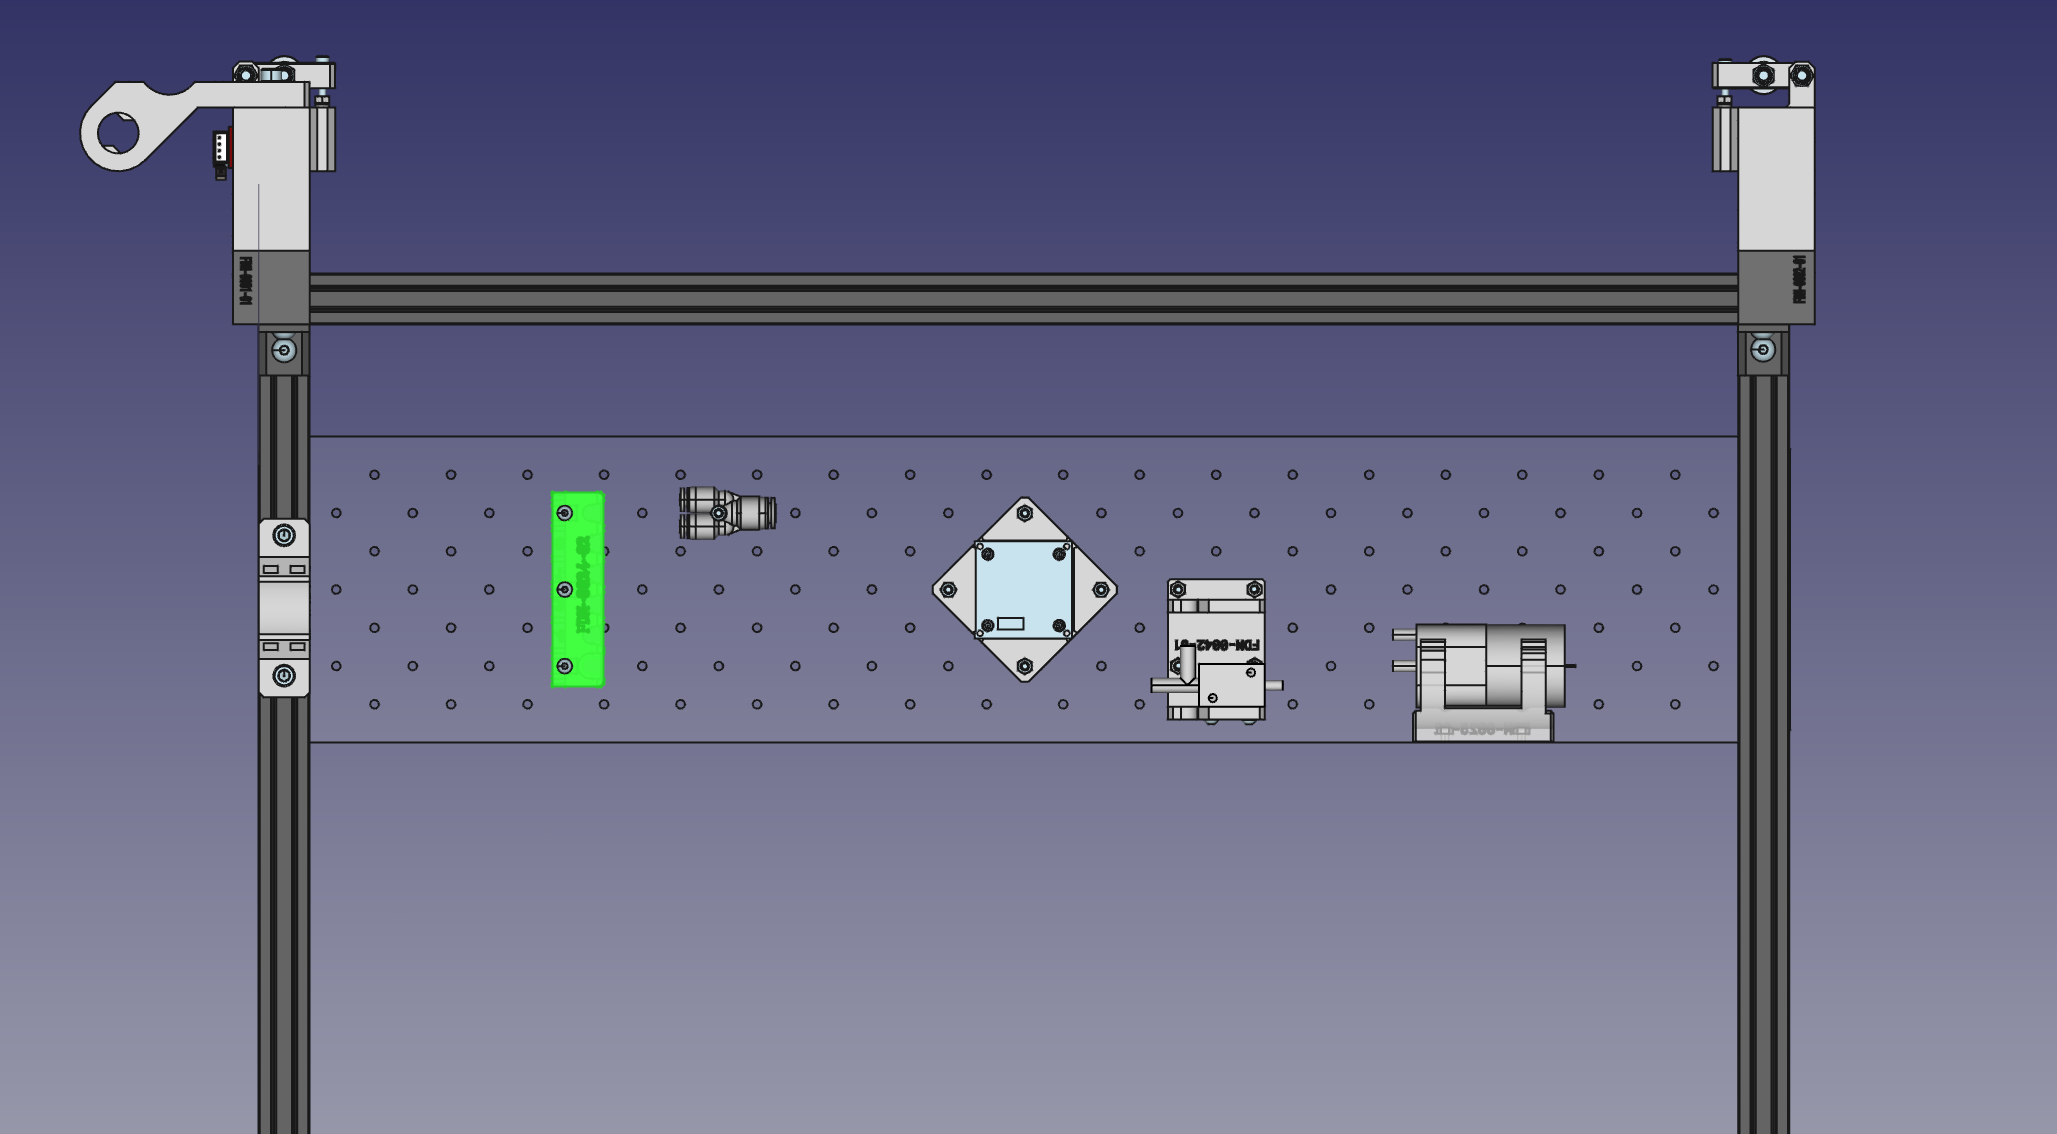
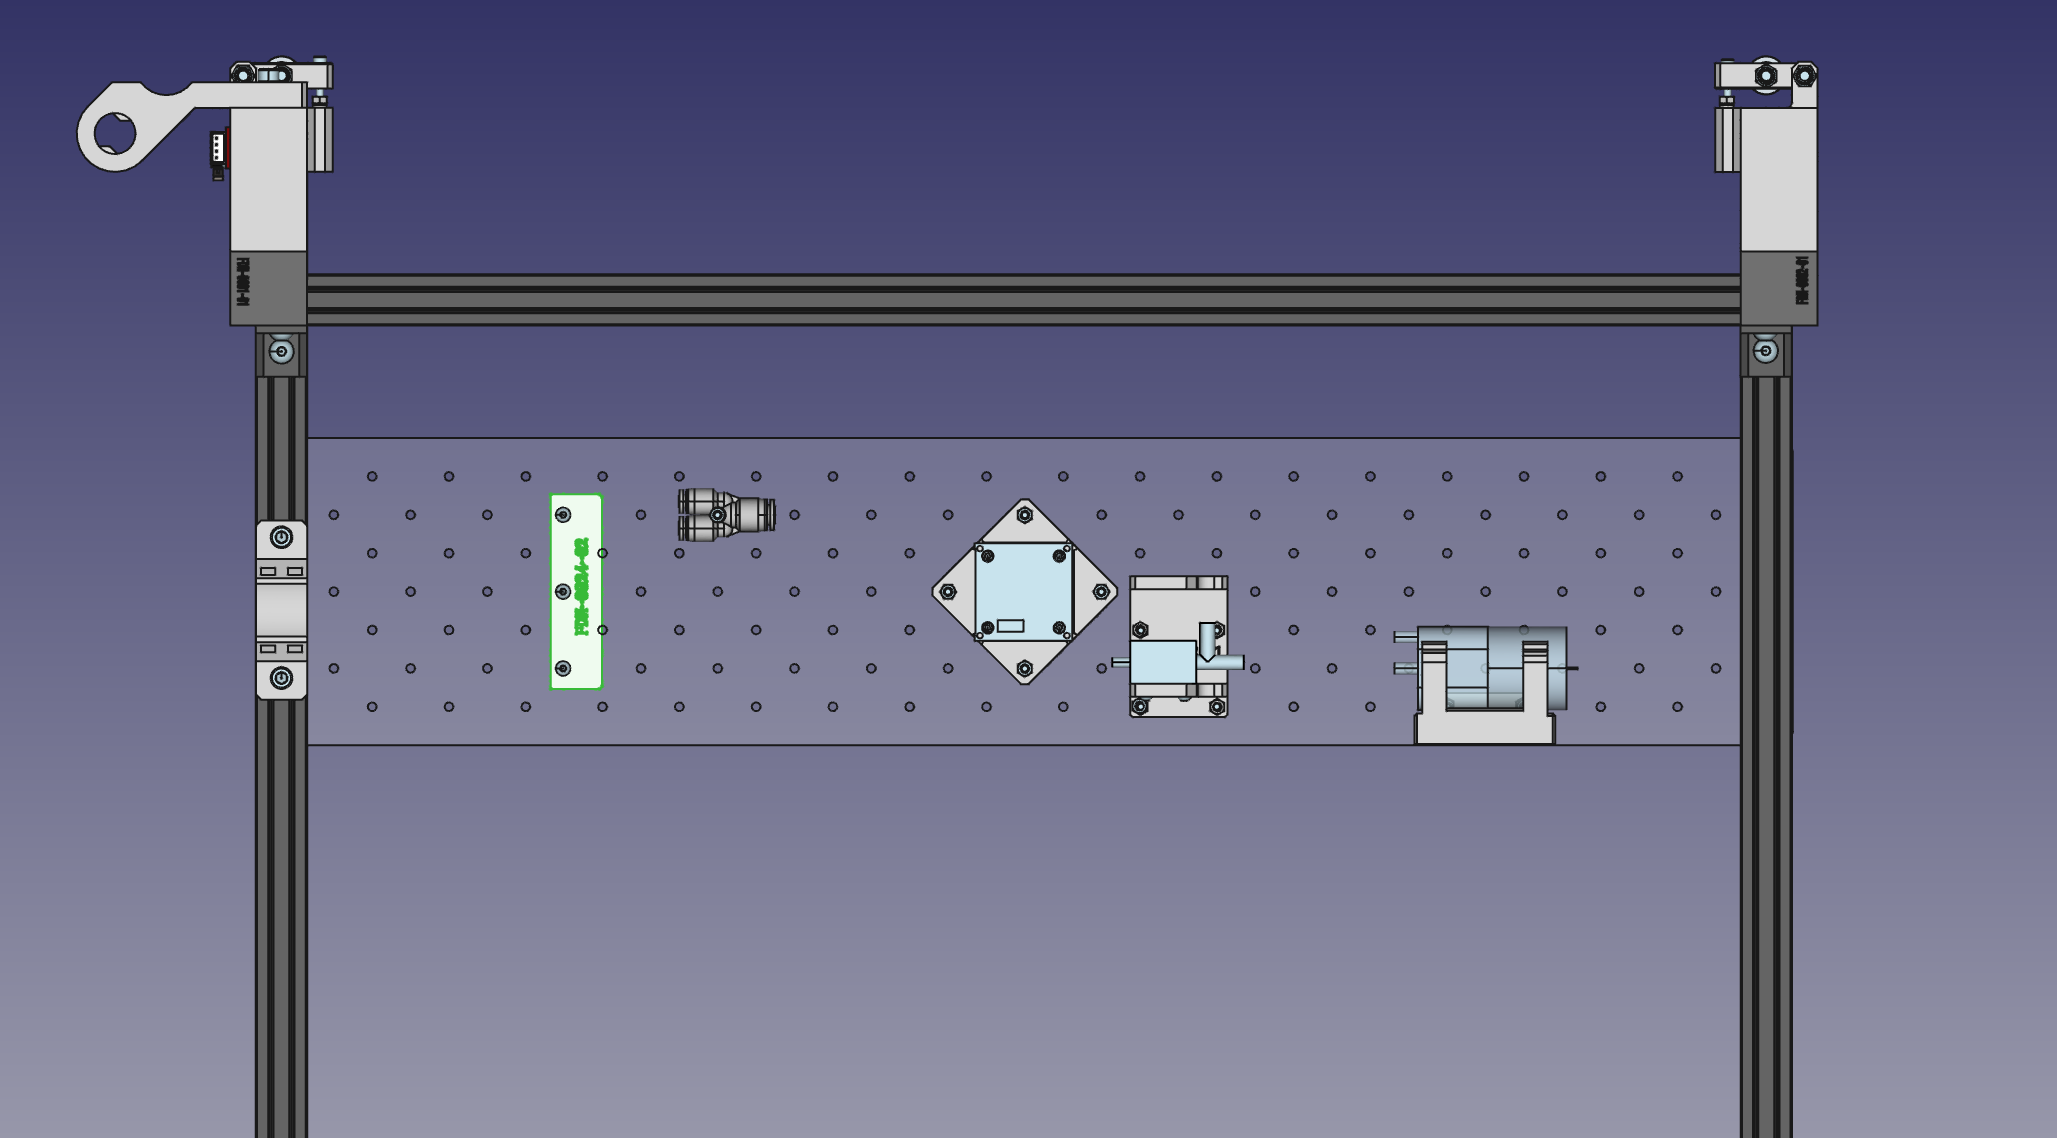
CAD images for Populating the staging plate

diff --git a/doc/content/en/docs/mechanical-assembly/populating-staging-plate/index.md b/doc/content/en/docs/mechanical-assembly/populating-staging-plate/index.md
@@ -17,51 +17,64 @@ Refer to the images below for referencing where to mount parts on the staging pl
 
 ## Pump mount
 
-The first thing we'll mount to the staging plate is the {{<tooltip "Pump Mount" "FDM-0025">}}. This print suspends the pump using a couple rubber bands to ensure none of the vibration of the pump is transferred into the frame.
+The first thing we'll mount to the staging plate is the {{<tooltip "Pump Mount" "FDM-0025">}}. This print suspends the pump using two rubber bands to ensure none of the vibration of the pump is transferred into the frame.
 
-1. Start by press-fitting M3 nuts into the recesses in the {{<tooltip "Pump Mount" "FDM-0025">}}.
+1. Start by press-fitting M3 nuts into the side recesses in the {{<tooltip "Pump Mount" "FDM-0025">}}.
+  {{< container-image path="images/Populating-The-Staging-Plate-Step-1-2.png" alt="Two Nut locations on the Pump Mount" >}}
 
-2. Now we'll mount the pump in the print using a couple rubber bands. Start by grabbing the rubber band with both hands, giving it a half twist, and folding it over on itself, making two loops.
+2. Now we'll mount the pump in the {{<tooltip "Pump Mount" "FDM-0025">}} using a couple rubber bands. Start by grabbing the rubber band with both hands, giving it a half twist, and folding it over on itself, making two loops.
   {{< container-image path="images/IMG_0737.JPG" alt="" >}}
   {{< container-image path="images/IMG_0738.JPG" alt="" >}}
   {{< container-image path="images/IMG_0740.JPG" alt="" >}}
 
-3. Now stretch each rubber band over each pair of pegs on the mount. Guide the pump between each pair of bands so that it's suspended in the print.
+3. Now stretch each rubber band over each pair of pegs on the {{<tooltip "Pump Mount" "FDM-0025">}}. Guide the pump between each pair of bands so that it's suspended in the {{<tooltip "Pump Mount" "FDM-0025">}}.
   {{< container-image path="images/IMG_0742.JPG" alt="" >}}
   {{< container-image path="images/IMG_0743.JPG" alt="" >}}
   {{< container-image path="images/IMG_0744.JPG" alt="" >}}
 
-4. Mount it to the staging plate using two M3 x 10mm screws in the location shown below.
-  {{< container-image path="images/IMG_0741.JPG" alt="" >}}
+4. Mount the {{<tooltip "Pump Mount" "FDM-0025">}} to the staging plate using two M3 x 10mm screws in the location shown below.
+  {{< container-image path="images/Populating-The-Staging-Plate-Step-4-ALT.png" alt="Mounting position for the Pump" >}}
+  {{< container-image path="images/IMG_0741.JPG" alt="The Pump assembly mounted on the staging plate" >}}
 
 ## Valve mount
 Now we'll attach the {{<tooltip "Valve Mount" "FDM-0042">}} to the staging plate.
 
 5. Press fit four M3 nuts into the recesses in the {{<tooltip "Valve Mount" "FDM-0042">}}.
+  {{< container-image path="images/Populating-The-Staging-Plate-Step-5.png" alt="four nut locations in the Valve Mount" >}}
 
-6. Now we'll mount the valve to the print. Use two M3x8mm screws to attach the valve to the mount as shown below. Mount it to the staging plate using four M3x8mm screws in the location shown below.
+6. Use two M3x8mm screws to attach the valve to the {{<tooltip "Valve Mount" "FDM-0042">}} as shown below.
+  {{< container-image path="images/Populating-The-Staging-Plate-Step-6.png" alt="attaching the valve to the valve mount with two screws" >}}
+
+7. Use four M3x8mm screws to mount the {{<tooltip "Valve Mount" "FDM-0042">}} to the staging plate in the location shown below.
+  {{< container-image path="images/Populating-The-Staging-Plate-Step-7-ALT.png" alt="attaching the valve to the staging plate" >}}
   {{< container-image path="images/IMG_0745.jpg" alt="" >}}
 
 ## Pneumatic Y splitter mount
 
-7. TMount the pneumatic Y splitter to the staging plate using an M3x30mm screw and an M3 nut. You can find the correct location and orientation to mount it below:
+8. Use an M3x30mm screw and an M3 nut to mount the pneumatic Y splitter to the staging plate as shown below.
+  {{< container-image path="images/Populating-The-Staging-Plate-Step-8-ALT.png" alt="Attaching the Y Splitter to the Staging Plate" >}}
   {{< container-image path="images/PXL_20220204_061125932.MP.jpg" alt="" >}}
 
 ## Bottom camera mount
 
-8. Stack the {{<tooltip "Up Light Mount" "FDM-0019">}}, the Up Ring Light, and the {{<tooltip "Up Camera Mount" "FDM-0020">}} together.
+9. Stack the {{<tooltip "Up Light Mount" "FDM-0019">}}, the Up Ring Light, and the {{<tooltip "Up Camera Mount" "FDM-0020">}} together. (Note: the Up Ring Light is not pictured here)
+  {{< container-image path="images/Populating-The-Staging-Plate-Step-9.png" alt="Assembling the Up Camera stack" >}}
 
-9. Attach them to the staging plate using four M3x30mm screws and four M3 nuts.
+10. Use four M3x30mm screws and four M3 nuts to attach the stack to the staging plate. The cable connector for the Up Ring Light should be facing down and to the left, away from the valve.
+  {{< container-image path="images/Populating-The-Staging-Plate-Step-10.png" alt="Up Camera Stack attached to the staging plate with the Up Ring Light's connector facing down and to the left" >}}
 
-10. Loosen the screw on the camera so that we can adjust the camera's focus later. Even after doing so, it still might be difficult to rotate the lens. A light grip with some pliers and a gentle twist can help break the lens free and make it easier to rotate by hand.
+11. Loosen the screw on the camera so that we can adjust the camera's focus later. Even after doing so, it still might be difficult to rotate the lens. A light grip with some pliers and a gentle twist can help break the lens free and make it easier to rotate by hand.
 
-11. Use four M2.5x8mm screws to mount the camera into the up {{<tooltip "Up Camera Mount" "FDM-0020">}} by tapping directly into the plastic. Match the orientation to the image below:
-  {{< container-image path="images/IMG_0837.JPG" alt="" >}}
+12. Use four M2.5x8mm screws to mount the camera into the up {{<tooltip "Up Camera Mount" "FDM-0020">}} by tapping directly into the plastic. Match the orientation to the image below:
+  {{< container-image path="images/Populating-The-Staging-Plate-Step-12-ALT.png" alt="Up Camera Location on the staging plate" >}}
+  {{< container-image path="images/IMG_0837.JPG" alt="Final assembly of the Up Camera and Up Ring Light, with proper cable orientation" >}}
 
 ## Nozzle Holder
 
-12. Slide three M3 nuts into the slots in the back of the {{<tooltip "Nozzle Holder" "FDM-0024">}}.
+13. Slide three M3 nuts into the slots in the back of the {{<tooltip "Nozzle Holder" "FDM-0024">}}.
+  {{< container-image path="images/Populating-The-Staging-Plate-Step-13.png" alt="Nuts inserted into the nozzle holder" >}}
 
-13. Using three M3x8mm machine screws, tighten the {{<tooltip "Nozzle Holder" "FDM-0024">}} onto the staging plate as shown below.
+14. Using three M3x8mm machine screws, tighten the {{<tooltip "Nozzle Holder" "FDM-0024">}} on top of the staging plate as shown below.
+  {{< container-image path="images/Populating-The-Staging-Plate-Step-14-ALT.png" alt="Nozzle Holder location on the staging plate" >}}
   {{< container-image path="images/PXL_20220206_182121691.MP.jpg" alt="" >}}
   {{< container-image path="images/PXL_20220206_182234874.MP.jpg" alt="" >}}
